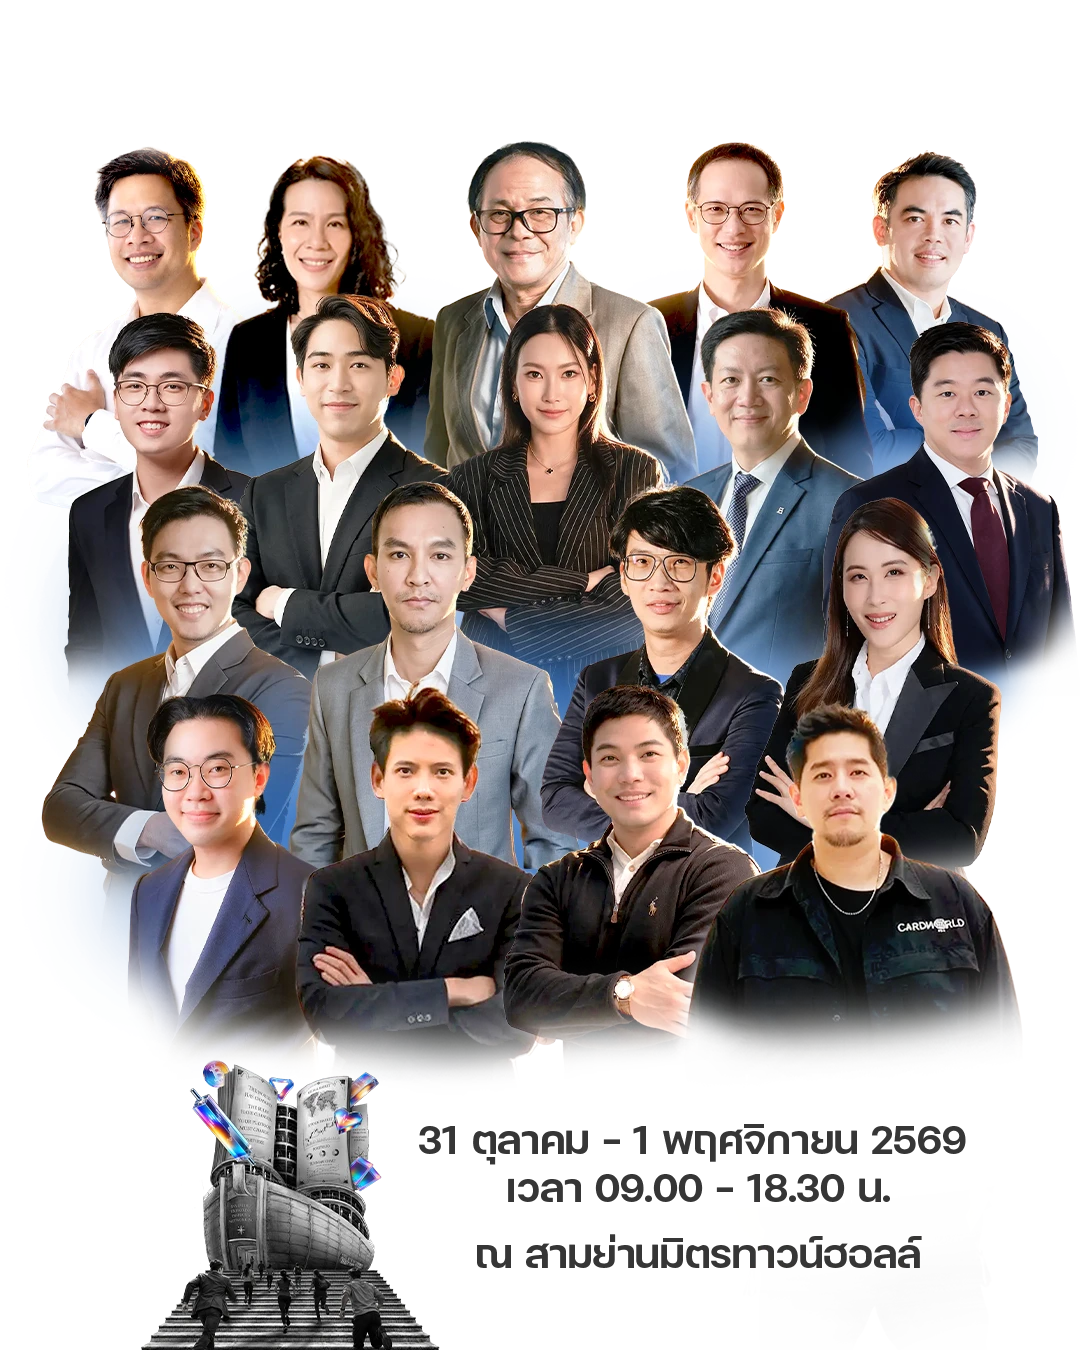
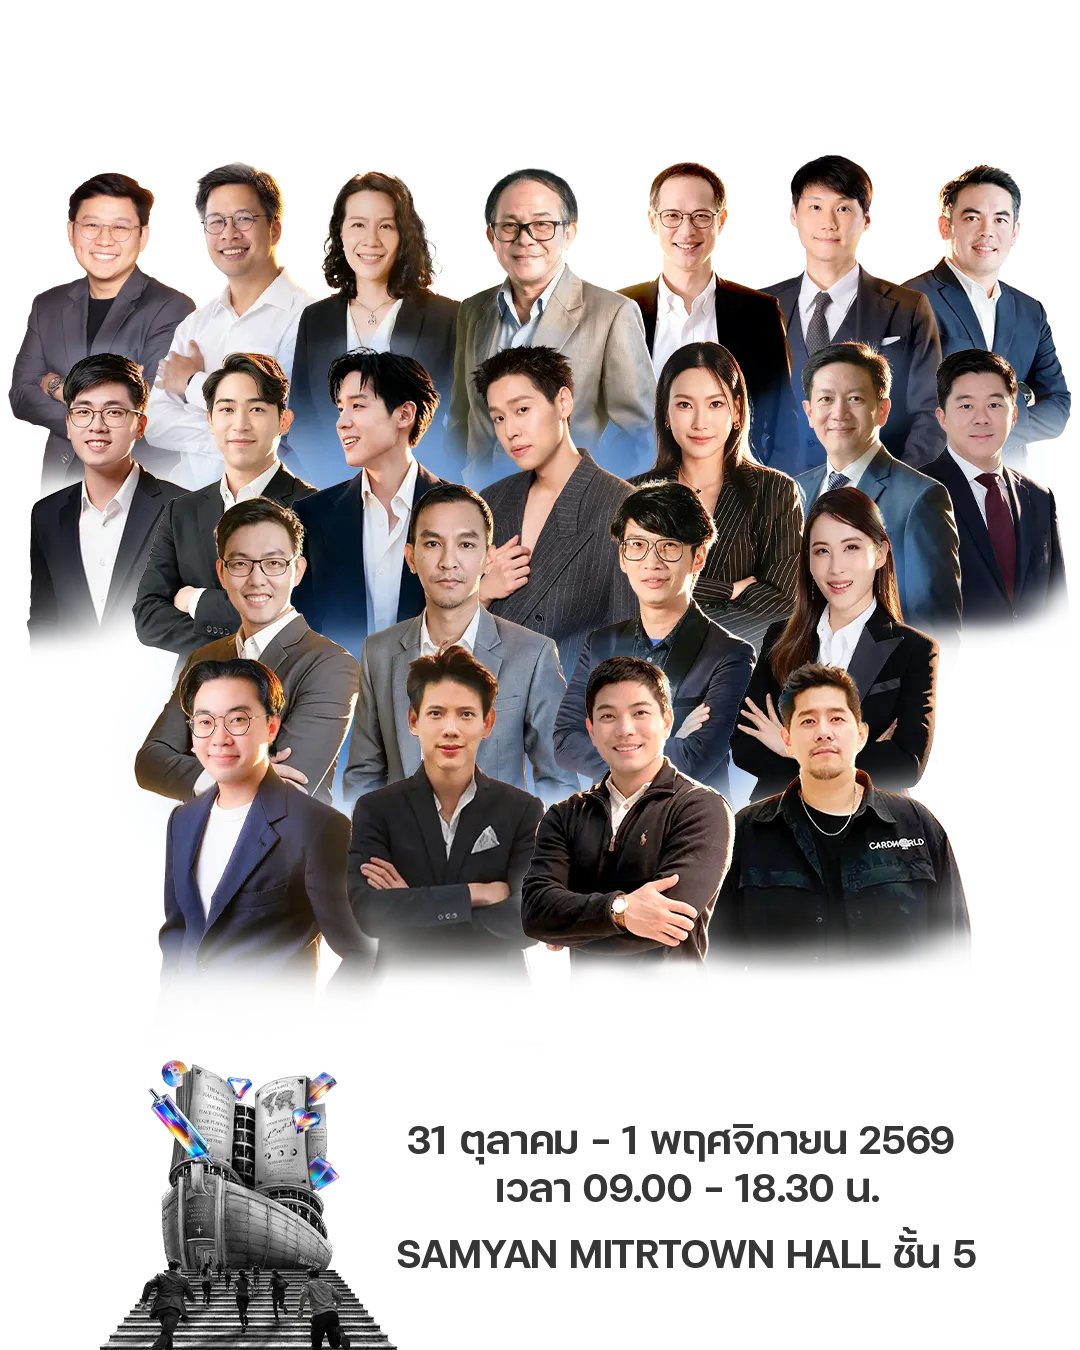
Announce BILLKIN & WINNE, Udomsak and Jirayus in agenda and speakers; update hero speaker image

diff --git a/index.html b/index.html
@@ -299,7 +299,7 @@
 
                 <div class="hero__visual col-12 col-lg-6 col-xl-7">
                     <figure class="hero__speakers">
-                        <img src="images/hero-speaker.webp?v=2" width="1080" height="1350"
+                        <img src="images/hero-speaker.webp?v=3" width="1080" height="1350"
                             alt="วิทยากรในงาน BetterTrade 2026 — 30+ Speakers, 20+ Sessions, 2 Days" fetchpriority="high">
                     </figure>
                 </div>
@@ -591,13 +591,11 @@
                                             <td>
                                                 <p class="agenda__session-title">FROM NOW ON</p>
                                                 <p class="agenda__session-summary">เรื่องลงทุนเริ่มวันนี้ ได้เปรียบวันหน้า</p>
-                                                <!-- <p class="agenda__session-speaker">BILLKIN & WINNE</p> -->
-                                                <p class="agenda__session-speaker">To Be Determined</p>
+                                                <p class="agenda__session-speaker">BILLKIN & WINNE</p>
                                             </td>
                                             <td class="agenda__speakers">
-                                                <!-- <span class="agenda__speaker-frame" aria-label="พื้นที่รูปโปรไฟล์วิทยากรคนที่ 1"><span class="agenda__speaker-photo"><img src="images/agenda/day-1/D1-บิวกิ้น.webp" width="240" height="240" loading="lazy" decoding="async" alt="BILLKIN"></span></span>
-                                                <span class="agenda__speaker-frame" aria-label="พื้นที่รูปโปรไฟล์วิทยากรคนที่ 2"><span class="agenda__speaker-photo"><img src="images/agenda/day-1/D1-วินนี่.webp" width="240" height="240" loading="lazy" decoding="async" alt="WINNE"></span></span> -->
-                                                <span class="agenda__speaker-frame" aria-label="พื้นที่รูปโปรไฟล์วิทยากร"><span class="agenda__speaker-photo"><img src="images/agenda/profile-empty.webp" width="928" height="1152" loading="lazy" decoding="async" alt=""></span></span>
+                                                <span class="agenda__speaker-frame" aria-label="พื้นที่รูปโปรไฟล์วิทยากรคนที่ 1"><span class="agenda__speaker-photo"><img src="images/agenda/day-1/D1-บิวกิ้น.webp" width="240" height="240" loading="lazy" decoding="async" alt="BILLKIN"></span></span>
+                                                <span class="agenda__speaker-frame" aria-label="พื้นที่รูปโปรไฟล์วิทยากรคนที่ 2"><span class="agenda__speaker-photo"><img src="images/agenda/day-1/D1-วินนี่.webp" width="240" height="240" loading="lazy" decoding="async" alt="WINNE"></span></span>
                                             </td>
                                         </tr>
                                         <tr>
@@ -846,12 +844,10 @@
                                             <td>
                                                 <p class="agenda__session-title">WEALTH, AFTER TAX</p>
                                                 <p class="agenda__session-summary">หาแทบตาย เงินต้องไม่หายไปกับภาษี</p>
-                                                <!-- <p class="agenda__session-speaker">ผศ.ดร.อุดมศักดิ์ รักวงษ์วาน</p> -->
-                                                <p class="agenda__session-speaker">To Be Determined</p>
+                                                <p class="agenda__session-speaker">ผศ.ดร.อุดมศักดิ์ รักวงษ์วาน</p>
                                             </td>
                                             <td class="agenda__speakers">
-                                                <!-- <span class="agenda__speaker-frame" aria-label="พื้นที่รูปโปรไฟล์วิทยากรคนที่ 1"><span class="agenda__speaker-photo"><img src="images/agenda/day-2/D2-อุดมศักดิ์-รักวงษ์วาน.webp" width="240" height="240" loading="lazy" decoding="async" alt="ผศ.ดร.อุดมศักดิ์ รักวงษ์วาน"></span></span> -->
-                                                <span class="agenda__speaker-frame" aria-label="พื้นที่รูปโปรไฟล์วิทยากร"><span class="agenda__speaker-photo"><img src="images/agenda/profile-empty.webp" width="928" height="1152" loading="lazy" decoding="async" alt=""></span></span>
+                                                <span class="agenda__speaker-frame" aria-label="พื้นที่รูปโปรไฟล์วิทยากรคนที่ 1"><span class="agenda__speaker-photo"><img src="images/agenda/day-2/D2-อุดมศักดิ์-รักวงษ์วาน.webp" width="240" height="240" loading="lazy" decoding="async" alt="ผศ.ดร.อุดมศักดิ์ รักวงษ์วาน"></span></span>
                                             </td>
                                         </tr>
                                         <tr>
@@ -903,12 +899,10 @@
                                             <td>
                                                 <p class="agenda__session-title">THE 100-YEAR PLAN</p>
                                                 <p class="agenda__session-summary">ถ้าอยู่ถึง 100 ปี วันนี้ต้องมีเงินเท่าไร ?</p>
-                                                <!-- <p class="agenda__session-speaker">คุณจิรายุส ทรัพย์ศรีโสภา</p> -->
-                                                <p class="agenda__session-speaker">To Be Determined</p>
+                                                <p class="agenda__session-speaker">คุณจิรายุส ทรัพย์ศรีโสภา</p>
                                             </td>
                                             <td class="agenda__speakers">
-                                                <!-- <span class="agenda__speaker-frame" aria-label="พื้นที่รูปโปรไฟล์วิทยากรคนที่ 1"><span class="agenda__speaker-photo"><img src="images/agenda/day-2/D2-ท๊อป-จิรายุส.webp" width="240" height="240" loading="lazy" decoding="async" alt="คุณจิรายุส ทรัพย์ศรีโสภา"></span></span> -->
-                                                <span class="agenda__speaker-frame" aria-label="พื้นที่รูปโปรไฟล์วิทยากร"><span class="agenda__speaker-photo"><img src="images/agenda/profile-empty.webp" width="928" height="1152" loading="lazy" decoding="async" alt=""></span></span>
+                                                <span class="agenda__speaker-frame" aria-label="พื้นที่รูปโปรไฟล์วิทยากรคนที่ 1"><span class="agenda__speaker-photo"><img src="images/agenda/day-2/D2-ท๊อป-จิรายุส.webp" width="240" height="240" loading="lazy" decoding="async" alt="คุณจิรายุส ทรัพย์ศรีโสภา"></span></span>
                                             </td>
                                         </tr>
                                         <tr>
@@ -2037,7 +2031,7 @@
     <script src="js/action-button.js"></script>
     <script src="js/ticket-price-selector.js?v=3"></script>
     <script src="js/agenda-tabs.js?v=30"></script>
-    <script src="js/speaker-directory.js?v=39"></script>
+    <script src="js/speaker-directory.js?v=40"></script>
     <script src="js/moderator-directory.js?v=1"></script>
     <script src="js/expectation-counter.js?v=2"></script>
     <script src="js/floor-plan-reveal.js?v=1"></script>

diff --git a/js/speaker-directory.js b/js/speaker-directory.js
@@ -51,16 +51,16 @@
                 role: 'Head of Business Development, efin Group',
                 image: 'day-1/D1-พสุธา-ไดจิ-อิเดะ.webp',
             },
-            // {
-            //     name: 'BILLKIN',
-            //     role: '',
-            //     image: 'day-1/D1-บิวกิ้น.webp',
-            // },
-            // {
-            //     name: 'WINNE',
-            //     role: '',
-            //     image: 'day-1/D1-วินนี่.webp',
-            // },
+            {
+                name: 'BILLKIN',
+                role: '',
+                image: 'day-1/D1-บิวกิ้น.webp',
+            },
+            {
+                name: 'WINNE',
+                role: '',
+                image: 'day-1/D1-วินนี่.webp',
+            },
             // {
             //     name: 'คุณวิน พรหมแพทย์',
             //     role: 'ประธานกรรมการบริหาร บลจ. กสิกรไทย จำกัด',
@@ -108,16 +108,16 @@
                 role: 'Property Developer & Collector',
                 image: 'day-2/D2-กฤษฎิ์-ชวาลรัตน์.webp',
             },
-            // {
-            //     name: 'ผศ.ดร.อุดมศักดิ์ รักวงษ์วาน',
-            //     role: 'อาจารย์ด้านคณิตศาสตร์การเงิน มหาวิทยาลัยเกษตรศาสตร์ และผู้ก่อตั้ง Altplus Group',
-            //     image: 'day-2/D2-อุดมศักดิ์-รักวงษ์วาน.webp',
-            // },
-            // {
-            //     name: 'คุณจิรายุส ทรัพย์ศรีโสภา',
-            //     role: 'ผู้ก่อตั้งกลุ่มบริษัท บิทคับ แคปปิตอล กรุ๊ป <br class="d-none d-xxl-block">โฮลดิ้งส์ จำกัด',
-            //     image: 'day-2/D2-ท๊อป-จิรายุส.webp',
-            // },
+            {
+                name: 'ผศ.ดร.อุดมศักดิ์ รักวงษ์วาน',
+                role: 'อาจารย์ด้านคณิตศาสตร์การเงิน มหาวิทยาลัยเกษตรศาสตร์ และผู้ก่อตั้ง Altplus Group',
+                image: 'day-2/D2-อุดมศักดิ์-รักวงษ์วาน.webp',
+            },
+            {
+                name: 'คุณจิรายุส ทรัพย์ศรีโสภา',
+                role: 'ผู้ก่อตั้งกลุ่มบริษัท บิทคับ แคปปิตอล กรุ๊ป <br class="d-none d-xxl-block">โฮลดิ้งส์ จำกัด',
+                image: 'day-2/D2-ท๊อป-จิรายุส.webp',
+            },
         ],
     };
 
